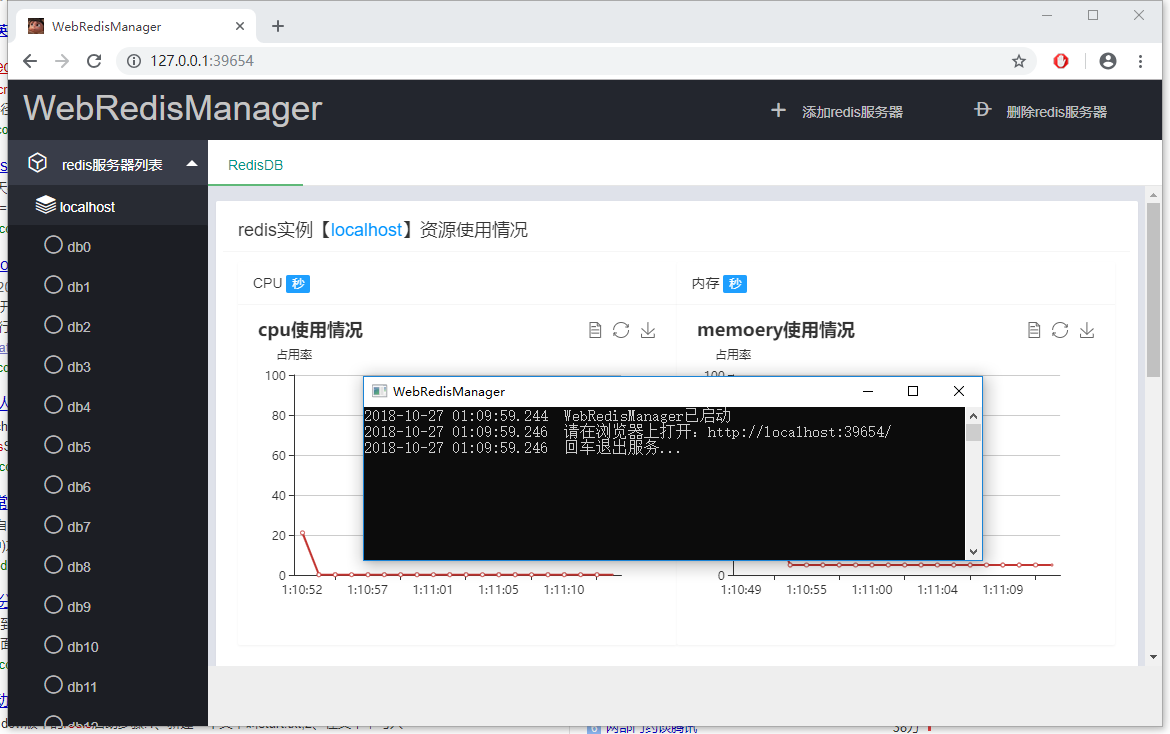
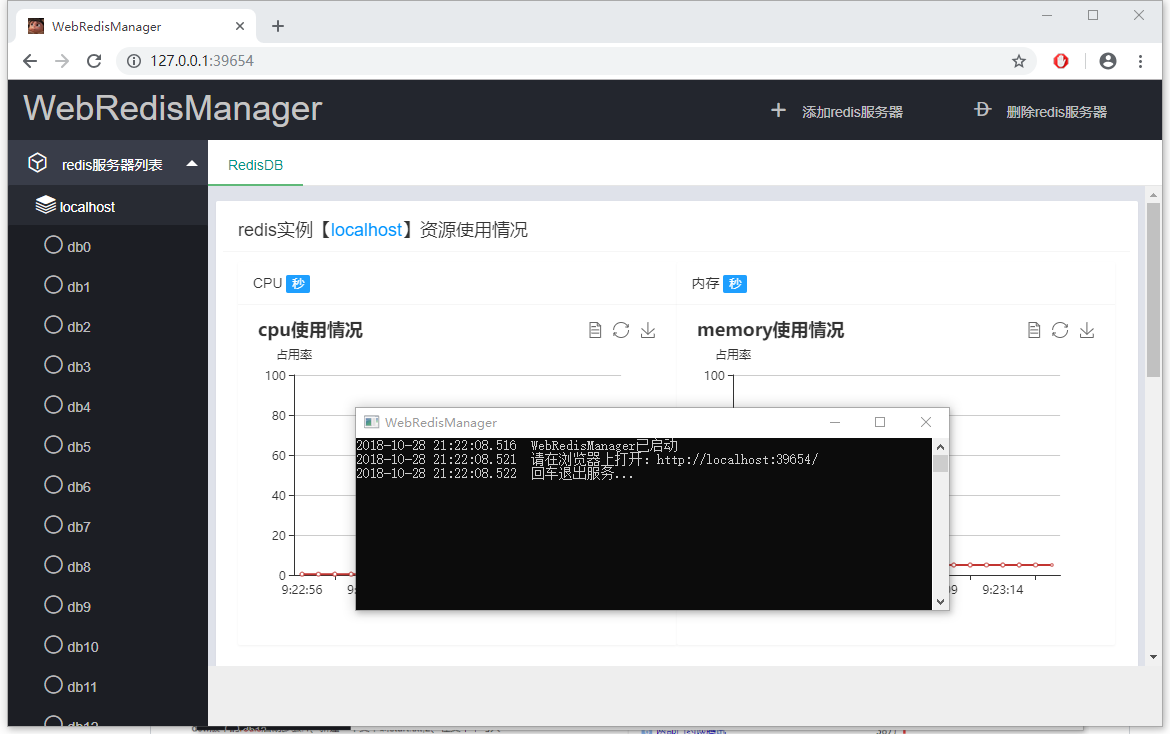
v3.0.0.1

Changed region(s): [[0.2462, 0.5095, 0.8923, 0.8392], [0.0, 0.9891, 0.9231, 1.0], [0.6462, 0.4196, 0.7385, 0.4796]]

diff --git a/SAEA.Redis.WebManager/Html/Content/js/redis.chart.js b/SAEA.Redis.WebManager/Html/Content/js/redis.chart.js
@@ -257,7 +257,7 @@
 
     //加载图表
     LineChart1("redis-cpu-div", "cpu使用情况", "/api/redis/getinfo", name);
-    LineChart2("redis-mem-div", "memoery使用情况", "/api/redis/getinfo", name);
+    LineChart2("redis-mem-div", "memory使用情况", "/api/redis/getinfo", name);
 
     $("#redis_name").html(name);
 
